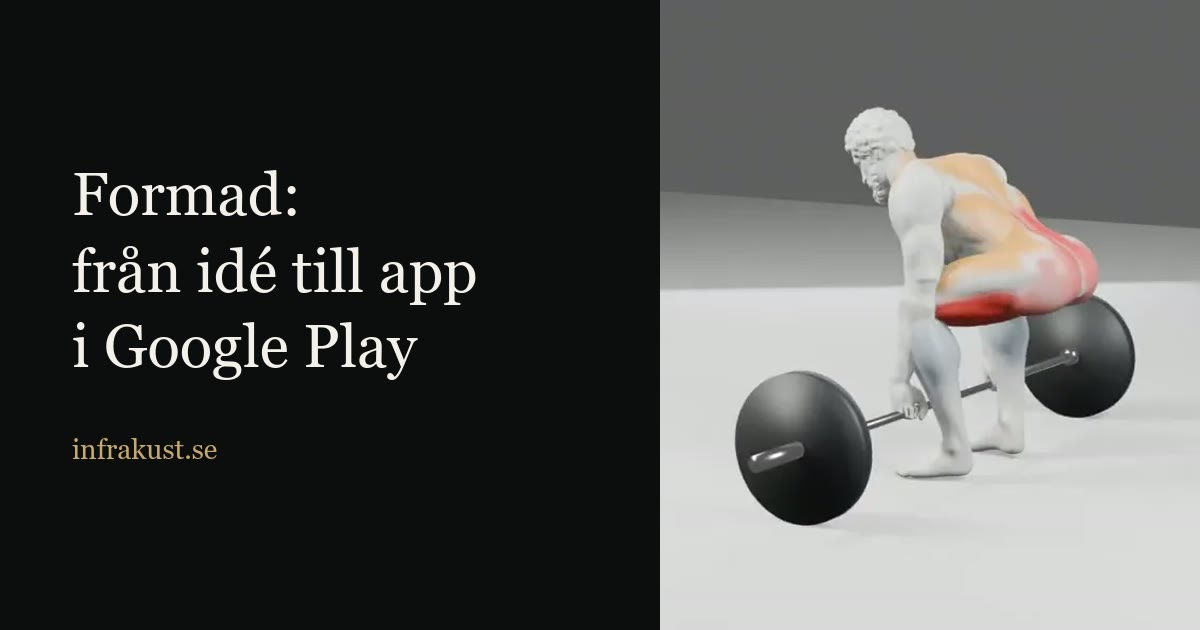
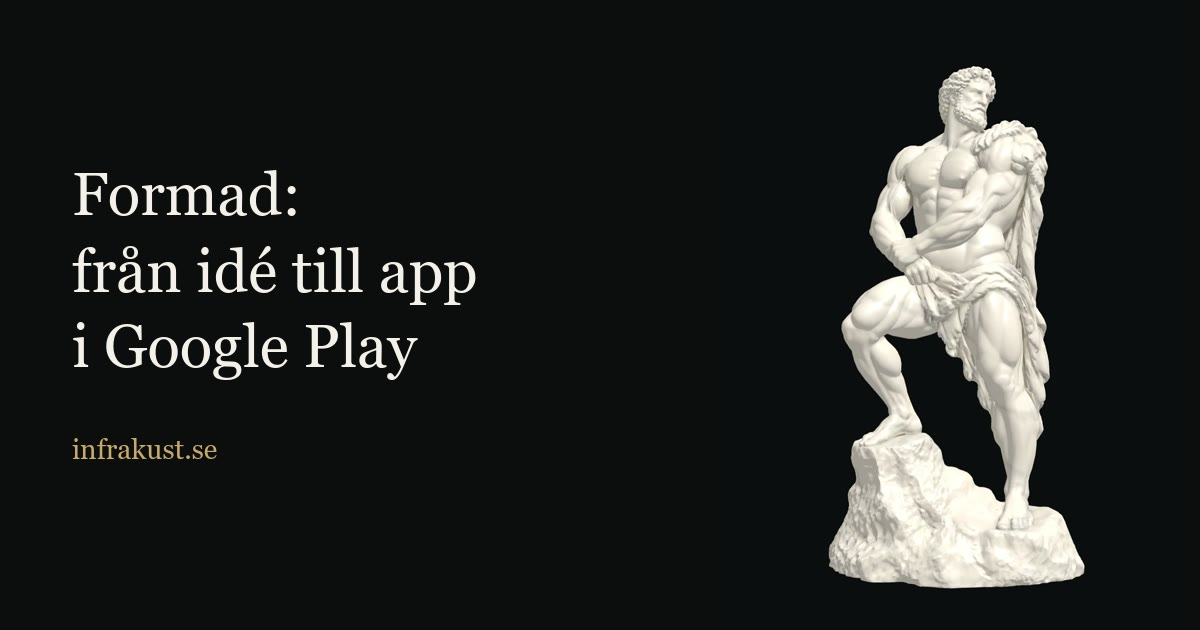
Formad-caset: statyn i OG-bilden, ny matbild, Sisyfos utan kanter
- og.jpg görs av 3D-visarens stillbild på mörk botten i stället för marklyftet
- tel-mat.webp tas om ur appen med mat loggad (scripts/material/tel-mat.cjs),
  så att målet står på en rad och inte ligger över Protein
- Sisyfos klipps i sex paneler och läggs om på mörk botten
  (scripts/material/sisyfos.mjs): 3 × 2 från 768 px, 2 × 3 på telefoner
- ProjectModal.tsx tas bort, ingen använde den

diff --git a/src/pages/CaseFormad.tsx b/src/pages/CaseFormad.tsx
@@ -348,14 +348,23 @@ export default function CaseFormad() {
             </div>
 
             <figure className="mx-auto mt-20 max-w-[960px] md:mt-28">
-              <img
-                src="/formad/sisyfos.webp"
-                alt="Veckan som Sisyfos: Herkules puttar stenen uppför veckan och är förgylld på söndagen"
-                width={1098}
-                height={1104}
-                loading="lazy"
-                className="block h-auto w-full"
-              />
+              {/* Tre kolumner från 768 px, två på telefoner så att staplarna går att läsa. */}
+              <picture>
+                <source
+                  media="(min-width: 768px)"
+                  srcSet="/formad/sisyfos-bred.webp"
+                  width={1106}
+                  height={1108}
+                />
+                <img
+                  src="/formad/sisyfos-smal.webp"
+                  alt="Veckan som Sisyfos: Herkules puttar stenen uppför veckan och är förgylld på söndagen"
+                  width={732}
+                  height={1670}
+                  loading="lazy"
+                  className="block h-auto w-full"
+                />
+              </picture>
               <figcaption className="mt-4 font-sans text-sm text-text-muted">
                 Varje hel dag lyfter han stenen lite högre. Sju dagar och han står i guld.
               </figcaption>
@@ -616,7 +625,9 @@ export default function CaseFormad() {
               <div className="mx-auto lg:mx-0">
                 <Phone
                   src="/formad/tel-mat.webp"
-                  alt="Formad, Mat-sidan med dagens kalorier i en marmorbåge och knappar för att söka och skanna"
+                  alt="Formad, Mat-sidan med dagens kalorier i en marmorbåge, makrona och knappar för att söka och skanna"
+                  width={1080}
+                  height={2338}
                 />
               </div>
             </div>
